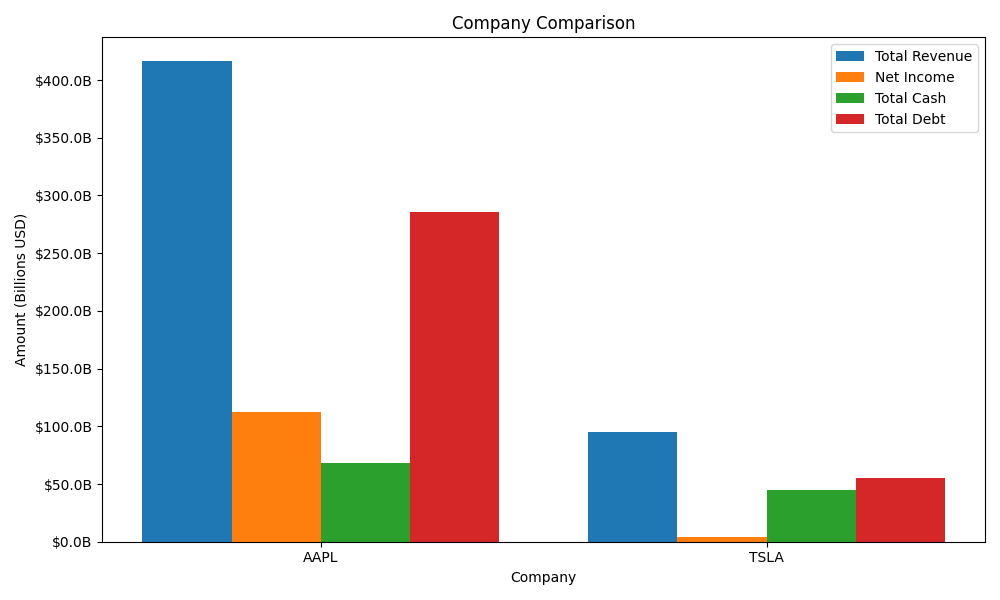
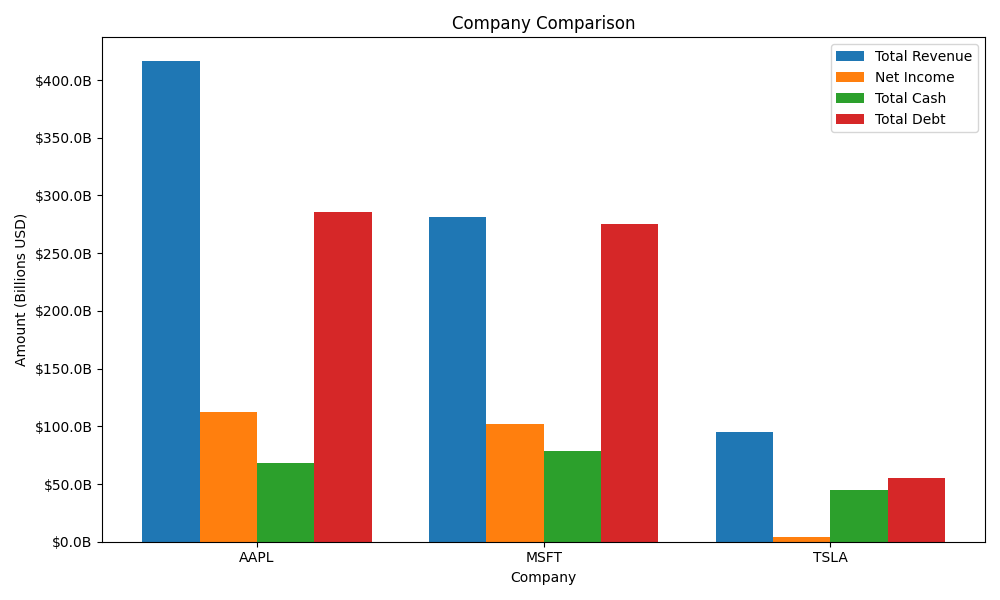
bugs fixed and code processes cleaneup
registration, seeing all past analysis, adding new analysis button, invalid ticker rejecting

Changed region(s): [[0.186, 0.09, 0.899, 0.96]]

diff --git a/A4/templates/results.html b/A4/templates/results.html
@@ -18,9 +18,17 @@
     </div>
 
     <div class="download-buttons">
-        <a href="{{ url_for('download_file', filename=csv_file) }}">Download CSV</a>
-        <a href="{{ url_for('download_file', filename=excel_file) }}">Download Excel</a>
-    </div>
+    <a href="{{ url_for('download_file', filename=csv_file) }}">Download CSV</a>
+    <a href="{{ url_for('download_file', filename=excel_file) }}">Download Excel</a>
+
+    <a class="download-btn" href="{{ url_for('analyze') }}">
+        Start New Analysis
+    </a>
+
+    <a class="download-btn" href="{{ url_for('compare') }}">
+        Start New Comparison
+    </a>
+</div>
 </div>
 
 {% if chart_file %}

diff --git a/A4/templates/compare_results.html b/A4/templates/compare_results.html
@@ -4,10 +4,20 @@
 
 {% block content %}
 <a class="back-link" href="{{ url_for('compare') }}">← New comparison</a>
+<div class="download-buttons">
+    <a class="download-btn" href="{{ url_for('compare') }}">
+        Start New Comparison
+    </a>
 
+    <a class="download-btn" href="{{ url_for('analyze') }}">
+        Start New Analysis
+    </a>
+</div>
 <div class="card">
     <h1>Company Comparison</h1>
-
+    {% if warning %}
+        <div class="error">{{ warning }}</div>
+    {% endif %}
     <div class="compare-summary">
         {% for ticker in tickers %}
         <div class="compare-badge">

diff --git a/A4/app.py b/A4/app.py
@@ -702,6 +702,7 @@ def save_outputs(ticker_symbol, data, ratios, category, score, custom_filename=N
     # Record to history
     history = load_history()
     history.append({
+       "username": session.get("username"),
         "ticker": ticker_symbol,
         "company_name": data.get("Company Name", ticker_symbol),
         "category": category,
@@ -760,7 +761,18 @@ def get_value_class(key, value):
 @login_required
 def home():
     """Dashboard / home page showing recent analyses and quick stats."""
-    history = load_history()
+
+    # Get current logged in user
+    username = session.get("username")
+
+    # Only load analyses from this user
+    all_history = load_history()
+    history = [
+        entry for entry in all_history
+        if entry.get("username") == username
+    ]
+
+    # Get most recent analyses
     recent = history[-5:][::-1] if history else []
 
     rank_counts = {"High Rank": 0, "Stable": 0, "Risky": 0}
@@ -853,13 +865,16 @@ def compare():
         if len(ticker_list) > 5:
             return render_template("compare.html", error="Please enter no more than 5 ticker symbols.")
 
-        try:
-            data_list = []
-            for ticker in ticker_list:
+        data_list = []
+        invalid_tickers = []
+
+        for ticker in ticker_list:
+            try:
                 data = get_financial_data(ticker)
                 ratios = calculate_ratios(data)
                 category = categorize_company(data, ratios)
                 score = calculate_score(data, ratios)
+
                 data_list.append({
                     "data": data,
                     "ratios": ratios,
@@ -867,64 +882,91 @@ def compare():
                     "score": score,
                 })
 
-            comparison = compare_companies(data_list)
-            chart_file = make_comparison_chart(data_list)
+            except Exception:
+                invalid_tickers.append(ticker)
 
-            # Format comparison values for display
-            currency_metrics = [
-                "Current Price", "Market Cap", "Total Revenue", "Gross Profits",
-                "Net Income", "Total Cash", "Total Debt", "Book Value",
-            ]
-            display_comparison = {}
-            for metric, row in comparison.items():
-                display_row = {}
-                for col, val in row.items():
-                    if metric in currency_metrics:
-                        formatted = format_currency(val)
-                    else:
-                        formatted = format_number(val)
-                    display_row[col] = {
-                        "value": formatted,
-                        "class": get_value_class(metric, formatted),
-                    }
-                display_comparison[metric] = display_row
-
-            tickers = [entry["data"]["Ticker"] for entry in data_list]
-            categories = {entry["data"]["Ticker"]: entry["category"] for entry in data_list}
-            scores = {entry["data"]["Ticker"]: entry["score"] for entry in data_list}
-
+        if len(data_list) < 2:
             return render_template(
-                "compare_results.html",
-                tickers=tickers,
-                comparison=display_comparison,
-                categories=categories,
-                scores=scores,
-                chart_file=chart_file,
+                "compare.html",
+                error="Please enter at least 2 valid ticker symbols."
             )
-        except Exception as error:
-            return render_template("compare.html", error=str(error))
+
+        comparison = compare_companies(data_list)
+        chart_file = make_comparison_chart(data_list)
+
+        currency_metrics = [
+            "Current Price", "Market Cap", "Total Revenue", "Gross Profits",
+            "Net Income", "Total Cash", "Total Debt", "Book Value",
+        ]
+
+        display_comparison = {}
+        for metric, row in comparison.items():
+            display_row = {}
+            for col, val in row.items():
+                if metric in currency_metrics:
+                    formatted = format_currency(val)
+                else:
+                    formatted = format_number(val)
+
+                display_row[col] = {
+                    "value": formatted,
+                    "class": get_value_class(metric, formatted),
+                }
+
+            display_comparison[metric] = display_row
+
+        tickers = [entry["data"]["Ticker"] for entry in data_list]
+        categories = {entry["data"]["Ticker"]: entry["category"] for entry in data_list}
+        scores = {entry["data"]["Ticker"]: entry["score"] for entry in data_list}
+
+        warning = None
+        if len(invalid_tickers) > 0:
+            warning = "Skipped invalid ticker(s): " + ", ".join(invalid_tickers)
+
+        return render_template(
+            "compare_results.html",
+            tickers=tickers,
+            comparison=display_comparison,
+            categories=categories,
+            scores=scores,
+            chart_file=chart_file,
+            warning=warning,
+        )
 
     return render_template("compare.html")
-
 
 @app.route("/downloads")
 @login_required
 def downloads():
-    """Downloads Center page showing saved analyses organized by rank folder."""
+    """Downloads Center page showing saved analyses for the logged-in user only."""
+
+    username = session.get("username")
+    history = [
+        entry for entry in load_history()
+        if entry.get("username") == username
+    ]
+
     files_by_rank = {}
+
     for folder_name, info in RANK_FOLDERS.items():
-        folder_path = os.path.join(OUTPUT_FOLDER, folder_name)
         files = []
-        if os.path.exists(folder_path):
-            for fname in sorted(os.listdir(folder_path), reverse=True):
-                fpath = os.path.join(folder_path, fname)
-                if os.path.isfile(fpath):
-                    files.append({
-                        "name": fname,
-                        "path": f"{folder_name}/{fname}",
-                        "size": os.path.getsize(fpath),
-                        "ext": os.path.splitext(fname)[1].lower(),
-                    })
+
+        for entry in history:
+            if entry.get("rank_folder") == folder_name:
+                files.append({
+                    "name": os.path.basename(entry.get("csv_file", "")),
+                    "path": entry.get("csv_file", ""),
+                    "size": "",
+                    "ext": ".csv",
+                })
+
+                files.append({
+                    "name": os.path.basename(entry.get("excel_file", "")),
+                    "path": entry.get("excel_file", ""),
+                    "size": "",
+                    "ext": ".xlsx",
+                })
+
         files_by_rank[folder_name] = {
             "label": info["label"],
             "files": files,